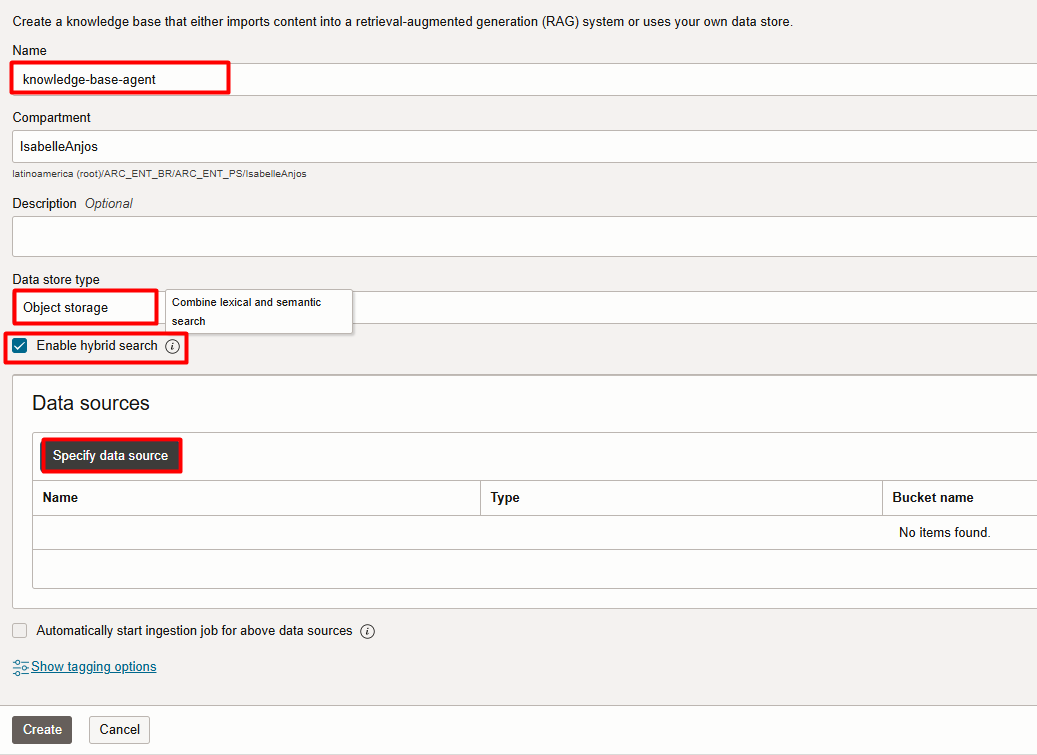
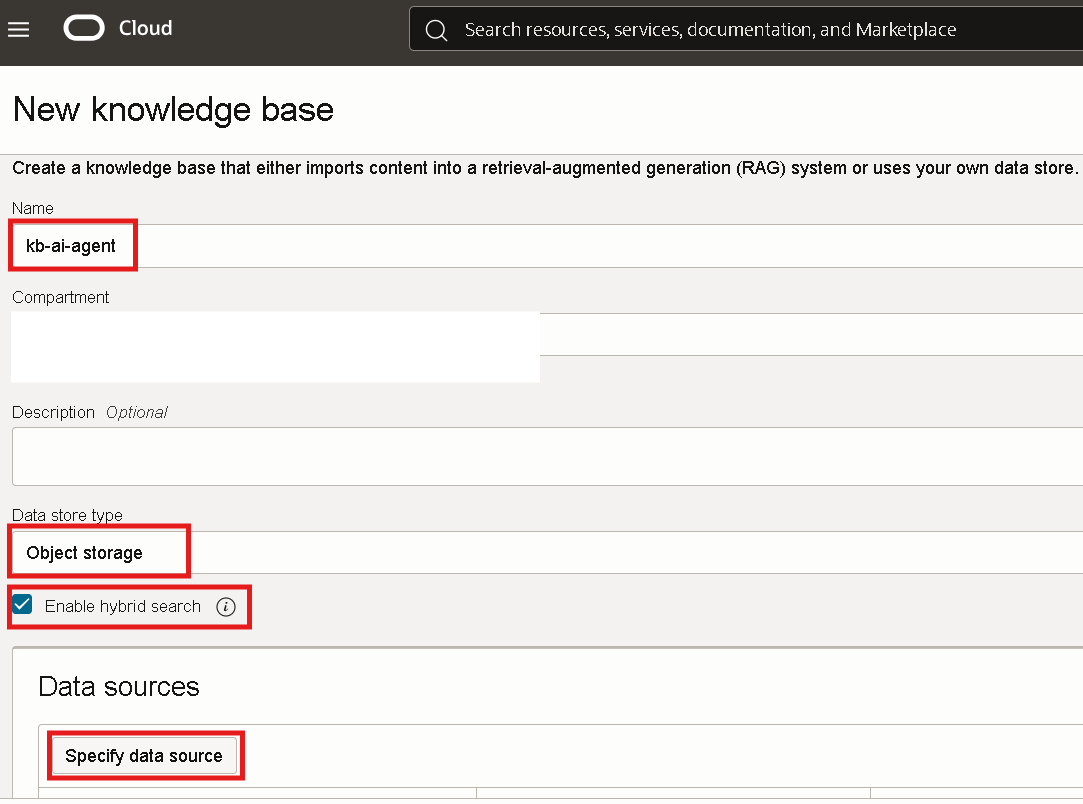
update

diff --git a/4-agents-generative-ai/4-agents-generative-ai.md b/4-agents-generative-ai/4-agents-generative-ai.md
@@ -67,7 +67,7 @@ Selecione **Create Knowledge Base**, conforme indicado abaixo.
 ![Create Knowledge](images/create-knowledge.png)
 
 Nesta tela, siga os passos abaixo:  
-1. Insira o nome da sua base de conhecimento. Recomendamos utilizar **knowledge-base-agent**.  
+1. Insira o nome da sua base de conhecimento. Recomendamos utilizar **kb-ai-agent**.  
 2. No campo **Data Source Type**, selecione a opção **Object Storage**.  
 3. Selecione a opção **Enable Hybrid Search**, que combina pesquisa semântica (busca baseada no significado e contexto) e pesquisa lexical (busca por correspondência exata de termos), garantindo resultados mais precisos e relevantes.
 4. Clique em **Specify Data Source** para configurar os arquivos que serão utilizados pelo Agent.  
